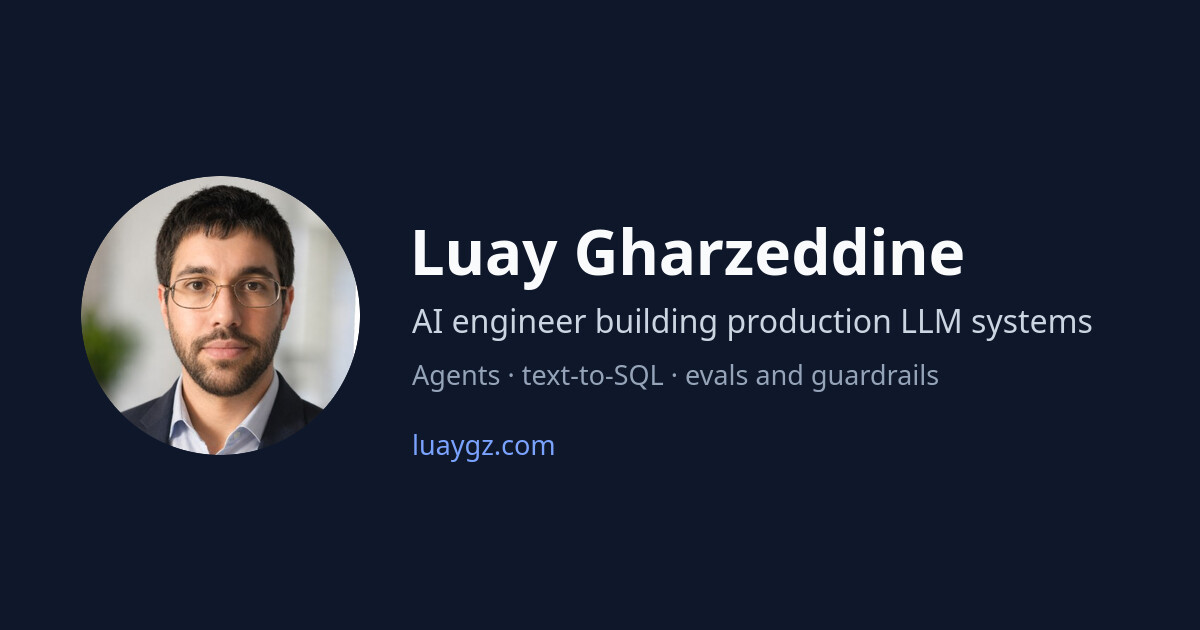
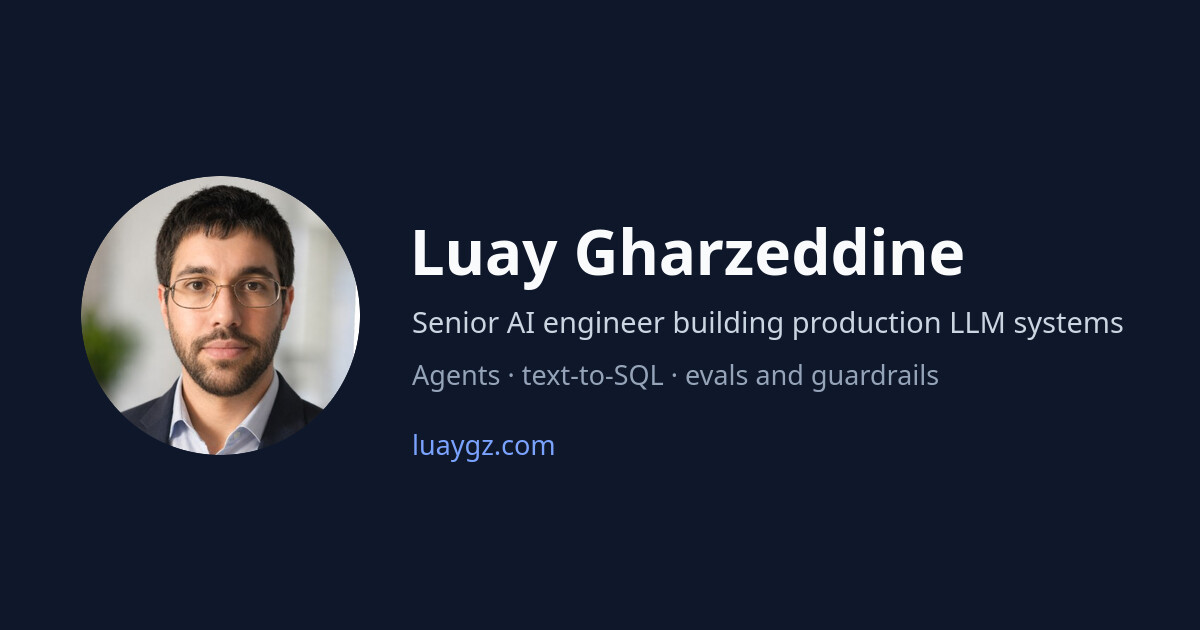
Headline: Senior AI engineer

Changed region(s): [[0.3392, 0.4825, 0.925, 0.5429]]

diff --git a/index.html b/index.html
@@ -3,8 +3,8 @@
 <head>
   <meta charset="utf-8">
   <meta name="viewport" content="width=device-width, initial-scale=1">
-  <title>Luay Gharzeddine · AI Engineer</title>
-  <meta name="description" content="Luay Gharzeddine is an AI engineer building production LLM systems: multi-agent orchestration, text-to-SQL, retrieval, and the evals and guardrails that make them safe to ship. TMLR 2026.">
+  <title>Luay Gharzeddine · Senior AI Engineer</title>
+  <meta name="description" content="Luay Gharzeddine is a senior AI engineer building production LLM systems: multi-agent orchestration, text-to-SQL, retrieval, and the evals and guardrails that make them safe to ship. TMLR 2026.">
   <meta name="author" content="Luay Gharzeddine">
   <link rel="canonical" href="https://www.luaygz.com/">
   <meta name="color-scheme" content="light dark">
@@ -13,16 +13,16 @@
 
   <meta property="og:type" content="profile">
   <meta property="og:url" content="https://www.luaygz.com/">
-  <meta property="og:title" content="Luay Gharzeddine · AI Engineer">
+  <meta property="og:title" content="Luay Gharzeddine · Senior AI Engineer">
   <meta property="og:description" content="Production LLM systems: multi-agent orchestration, text-to-SQL, retrieval, evals and guardrails. TMLR 2026.">
   <meta property="og:image" content="https://www.luaygz.com/assets/img/og.jpg">
   <meta property="og:image:width" content="1200">
   <meta property="og:image:height" content="630">
-  <meta property="og:image:alt" content="Luay Gharzeddine, AI engineer building production LLM systems">
+  <meta property="og:image:alt" content="Luay Gharzeddine, senior AI engineer building production LLM systems">
   <meta property="profile:first_name" content="Luay">
   <meta property="profile:last_name" content="Gharzeddine">
   <meta name="twitter:card" content="summary_large_image">
-  <meta name="twitter:title" content="Luay Gharzeddine · AI Engineer">
+  <meta name="twitter:title" content="Luay Gharzeddine · Senior AI Engineer">
   <meta name="twitter:description" content="Production LLM systems: multi-agent orchestration, text-to-SQL, retrieval, evals and guardrails. TMLR 2026.">
   <meta name="twitter:image" content="https://www.luaygz.com/assets/img/og.jpg">
 
@@ -37,7 +37,7 @@
     "name": "Luay Gharzeddine",
     "url": "https://www.luaygz.com/",
     "image": "https://www.luaygz.com/assets/img/luay.jpg",
-    "jobTitle": "AI Engineer",
+    "jobTitle": "Senior AI Engineer",
     "address": { "@type": "PostalAddress", "addressLocality": "Beirut", "addressCountry": "LB" },
     "alumniOf": { "@type": "CollegeOrUniversity", "name": "American University of Beirut" },
     "sameAs": [
@@ -56,7 +56,7 @@
     <header class="hero">
       <div class="hero-text">
         <h1>Luay Gharzeddine</h1>
-        <p class="tagline">AI engineer building production LLM systems: multi-agent orchestration, text-to-SQL, retrieval, and the evals and guardrails that make them safe to ship.</p>
+        <p class="tagline">Senior AI engineer building production LLM systems: multi-agent orchestration, text-to-SQL, retrieval, and the evals and guardrails that make them safe to ship.</p>
         <p class="meta">Beirut, Lebanon <span aria-hidden="true">·</span> UTC+2</p>
         <nav class="links" aria-label="Profiles">
           <a href="https://github.com/luaygz">GitHub</a>
